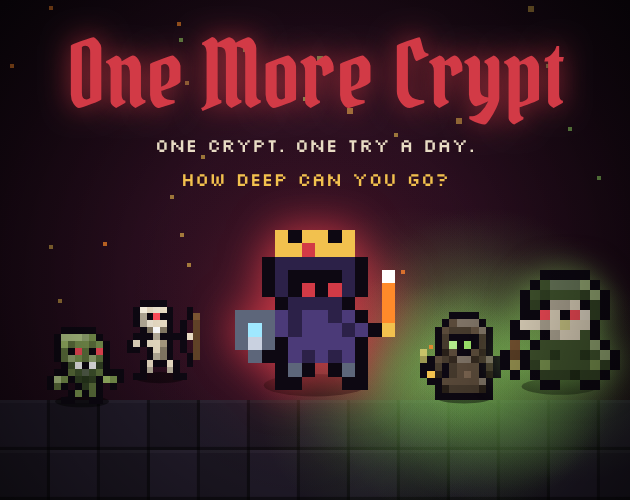
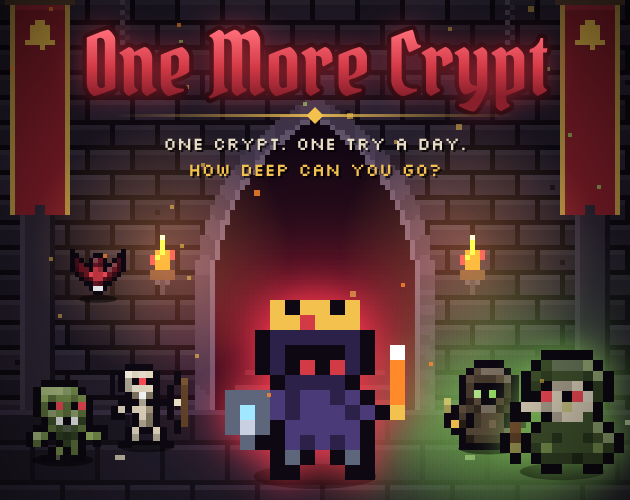
itch.io cover in the new pixel style: the crowned knight in the crypt doorway
Claude-Session: https://claude.ai/code/session_01EZvy4DRrhZeutdw1H9MYoi

diff --git a/scripts/x-brand.html b/scripts/x-brand.html
@@ -338,6 +338,38 @@
         ctx.restore();
       }
 
+      /**
+       * A pointed arch opening onto stairs that glow crimson far below: centred on cx, the
+       * curve springing at `spring` with half-width R, open down to `bottom`, brightest at glowY.
+       */
+      function archway(px, cx, spring, R, bottom, glowY) {
+        const inside = (x, y, grow = 0) => y >= spring ? Math.abs(x + 0.5 - cx) <= R + grow : Math.hypot(x + 0.5 - (cx - R), y - spring) <= 2 * R + grow && Math.hypot(x + 0.5 - (cx + R), y - spring) <= 2 * R + grow;
+        const top = Math.floor(spring - Math.sqrt(3) * R) - 5;
+        for (let y = Math.max(0, top); y < bottom; y++) {
+          for (let x = cx - R - 5; x <= cx + R + 5; x++) {
+            if (inside(x, y)) {
+              // the depths: black at the top of the arch, glowing crimson far down the stairs
+              const d = Math.hypot((x - cx) / 1.6, y - glowY);
+              const t = Math.max(0, 1 - d / (R * 1.35));
+              const r = Math.round(14 + 150 * t * t), gg = Math.round(6 + 22 * t * t), b = Math.round(18 + 30 * t * t);
+              px(x, y, 1, 1, `rgb(${r},${gg},${b})`);
+            } else if (inside(x, y, 4)) {
+              // the arch stones, lit along their inner edge
+              const edge = inside(x, y, 1);
+              const seg = Math.floor(Math.atan2(y - spring, x - cx) * 6 + (y >= spring ? y / 4 : 0));
+              px(x, y, 1, 1, edge ? '#5d5268' : seg % 2 ? '#3d3448' : '#463c52');
+            }
+          }
+        }
+        // stairs going down: each step narrower and dimmer toward the glow
+        for (let i = 0; i < 7; i++) {
+          const y = bottom - 2 - i * 3;
+          const hw = Math.round((R - 2) * (1 - i / 8));
+          px(cx - hw, y, hw * 2, 1, i < 2 ? '#4a2a36' : '#5a1f2c');
+          px(cx - hw, y + 1, hw * 2, 2, i < 2 ? '#1c1220' : '#2a0e18');
+        }
+      }
+
       const reaper = s.reaper.normal;
       // The heroes dressed in the crypt's finest, each with an aura.
       const cast = [
@@ -359,32 +391,7 @@
         const S = 10;
         const { c, px } = grid(80, 80);
         bricks(px, 0, 0, 80, 80, 4);
-        // a pointed arch: the doorway down into the crypt
-        const cx = 40, spring = 34, R = 19;
-        const inside = (x, y, grow = 0) => y >= spring ? Math.abs(x + 0.5 - cx) <= R + grow : Math.hypot(x + 0.5 - (cx - R), y - spring) <= 2 * R + grow && Math.hypot(x + 0.5 - (cx + R), y - spring) <= 2 * R + grow;
-        for (let y = 0; y < 72; y++) {
-          for (let x = 0; x < 80; x++) {
-            if (inside(x, y)) {
-              // the depths: black at the top of the arch, glowing crimson far down the stairs
-              const d = Math.hypot((x - cx) / 1.6, y - 44);
-              const t = Math.max(0, 1 - d / 26);
-              const r = Math.round(14 + 150 * t * t), gg = Math.round(6 + 22 * t * t), b = Math.round(18 + 30 * t * t);
-              px(x, y, 1, 1, `rgb(${r},${gg},${b})`);
-            } else if (inside(x, y, 4)) {
-              // the arch stones, lit along their inner edge
-              const edge = inside(x, y, 1);
-              const seg = Math.floor(Math.atan2(y - spring, x - cx) * 6 + (y >= spring ? y / 4 : 0));
-              px(x, y, 1, 1, edge ? '#5d5268' : seg % 2 ? '#3d3448' : '#463c52');
-            }
-          }
-        }
-        // stairs going down: each step narrower and dimmer toward the glow
-        for (let i = 0; i < 7; i++) {
-          const y = 70 - i * 3;
-          const hw = 17 - i * 2;
-          px(cx - hw, y, hw * 2, 1, i < 2 ? '#4a2a36' : '#5a1f2c');
-          px(cx - hw, y + 1, hw * 2, 2, i < 2 ? '#1c1220' : '#2a0e18');
-        }
+        archway(px, 40, 34, 19, 72, 44);
         // the keystone, carved with the bell
         px(36, 11, 8, 9, '#4f4559');
         px(36, 11, 8, 1, '#6b6078');
@@ -517,22 +524,41 @@
       {
         const ctx = document.getElementById('itch').getContext('2d');
         ctx.imageSmoothingEnabled = false;
-        const bg = ctx.createRadialGradient(315, 300, 30, 315, 280, 520);
-        bg.addColorStop(0, '#3a1328');
-        bg.addColorStop(1, '#07040b');
-        ctx.fillStyle = bg;
-        ctx.fillRect(0, 0, 630, 500);
-        floor(ctx, 0, 400, 630, 100, 50);
-        glow(ctx, 315, 310, 190, 'rgba(210, 58, 70, 0.35)');
-        mist(ctx, 360, 630, 330, 80, 21, 0.18);
-        embers(ctx, 0, 630, 400, 26, 11, 0.25);
-        figure(ctx, foe('ghoul'), 40, 320, 84);
-        figure(ctx, foe('archer'), 120, 300, 80);
-        figure(ctx, knight, 235, 230, 160, 'rgba(210,58,70,0.9)');
-        figure(ctx, foe('monk'), 420, 312, 88, null, true);
-        figure(ctx, foe('abbot'), 500, 270, 120, 'rgba(155,227,106,0.5)', true);
-        vignette(ctx, 630, 500, 315, 280, 150, 460, 0.7);
-        title(ctx, 315, 108, 92, 'ONE CRYPT. ONE TRY A DAY.', 152, 'HOW DEEP CAN YOU GO?', 186, 19);
+        const { c, px } = grid(126, 100);
+        bricks(px, 0, 0, 126, 100, 21);
+        for (const x of [4, 115]) {
+          px(x, 0, 7, 82, '#2f2838');
+          px(x, 0, 1, 82, '#40374b');
+          px(x + 6, 0, 1, 82, '#16111c');
+          px(x - 1, 12, 9, 2, '#3a3245');
+        }
+        archway(px, 63, 58, 20, 82, 66);
+        banner(px, 2, 0, 12, 40);
+        banner(px, 112, 0, 12, 40);
+        chain(px, 24, 0, 16);
+        chain(px, 101, 0, 12);
+        torch(px, 31, 52);
+        torch(px, 93, 52);
+        flags(px, 0, 82, 126, 18, 6);
+        ctx.drawImage(c, 0, 0, 630, 500);
+        light(ctx, 160, 250, 130, 'rgba(255,150,60,A)', 0.34);
+        light(ctx, 470, 250, 130, 'rgba(255,150,60,A)', 0.34);
+        light(ctx, 315, 330, 200, 'rgba(210,40,60,A)', 0.28);
+        light(ctx, 560, 380, 160, 'rgba(120,200,80,A)', 0.18);
+        mist(ctx, 400, 630, 380, 80, 21, 0.16);
+        // the crowned knight in the doorway, the dead closing in from both sides
+        stand(ctx, foe('ghoul'), 18, 462, 90);
+        stand(ctx, foe('archer'), 104, 448, 84);
+        stand(ctx, foe('bat'), 70, 300, 56);
+        stand(ctx, foe('monk'), 444, 450, 90, { flip: true });
+        stand(ctx, foe('abbot'), 500, 474, 124, { flip: true, glow: 'rgba(155,227,106,0.7)' });
+        stand(ctx, knight, 225, 480, 180, { glow: 'rgba(255,60,80,0.95)' });
+        embers(ctx, 0, 630, 420, 30, 11, 0.25);
+        vignette(ctx, 630, 500, 315, 300, 170, 470, 0.72);
+        bigTitle(ctx, 315, 96, 86);
+        flourish(ctx, 315, 114, 200);
+        caption(ctx, 'ONE CRYPT. ONE TRY A DAY.', 315, 150, 18, '#e8dcc4');
+        caption(ctx, 'HOW DEEP CAN YOU GO?', 315, 176, 18, '#f2c14e');
       }
       window.brandReady = true;
     </script>
